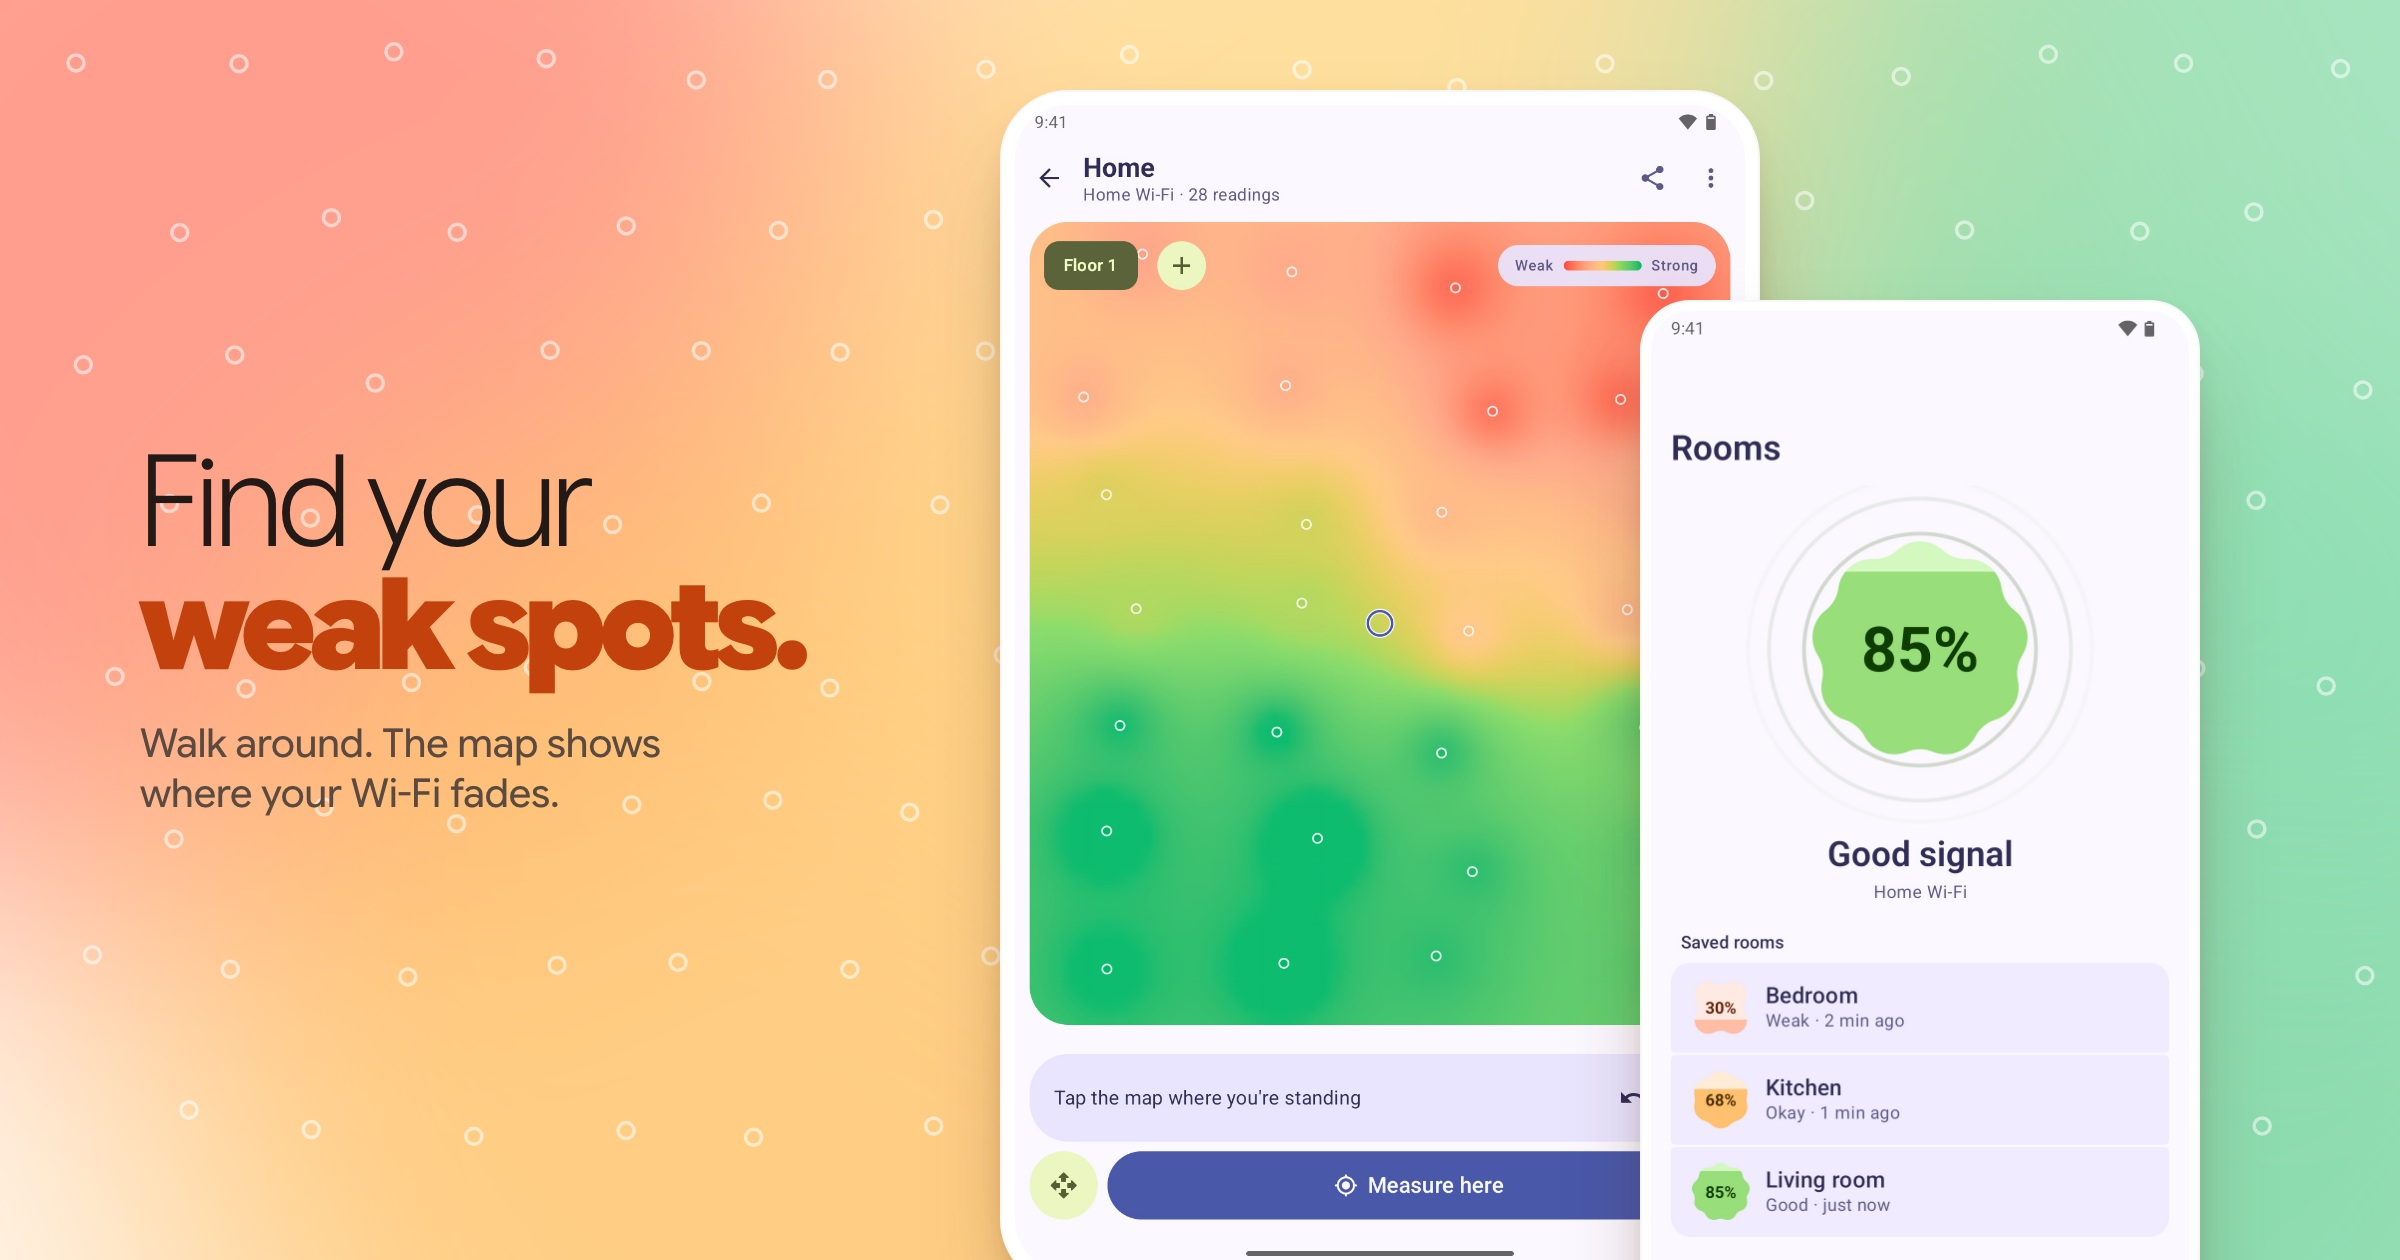
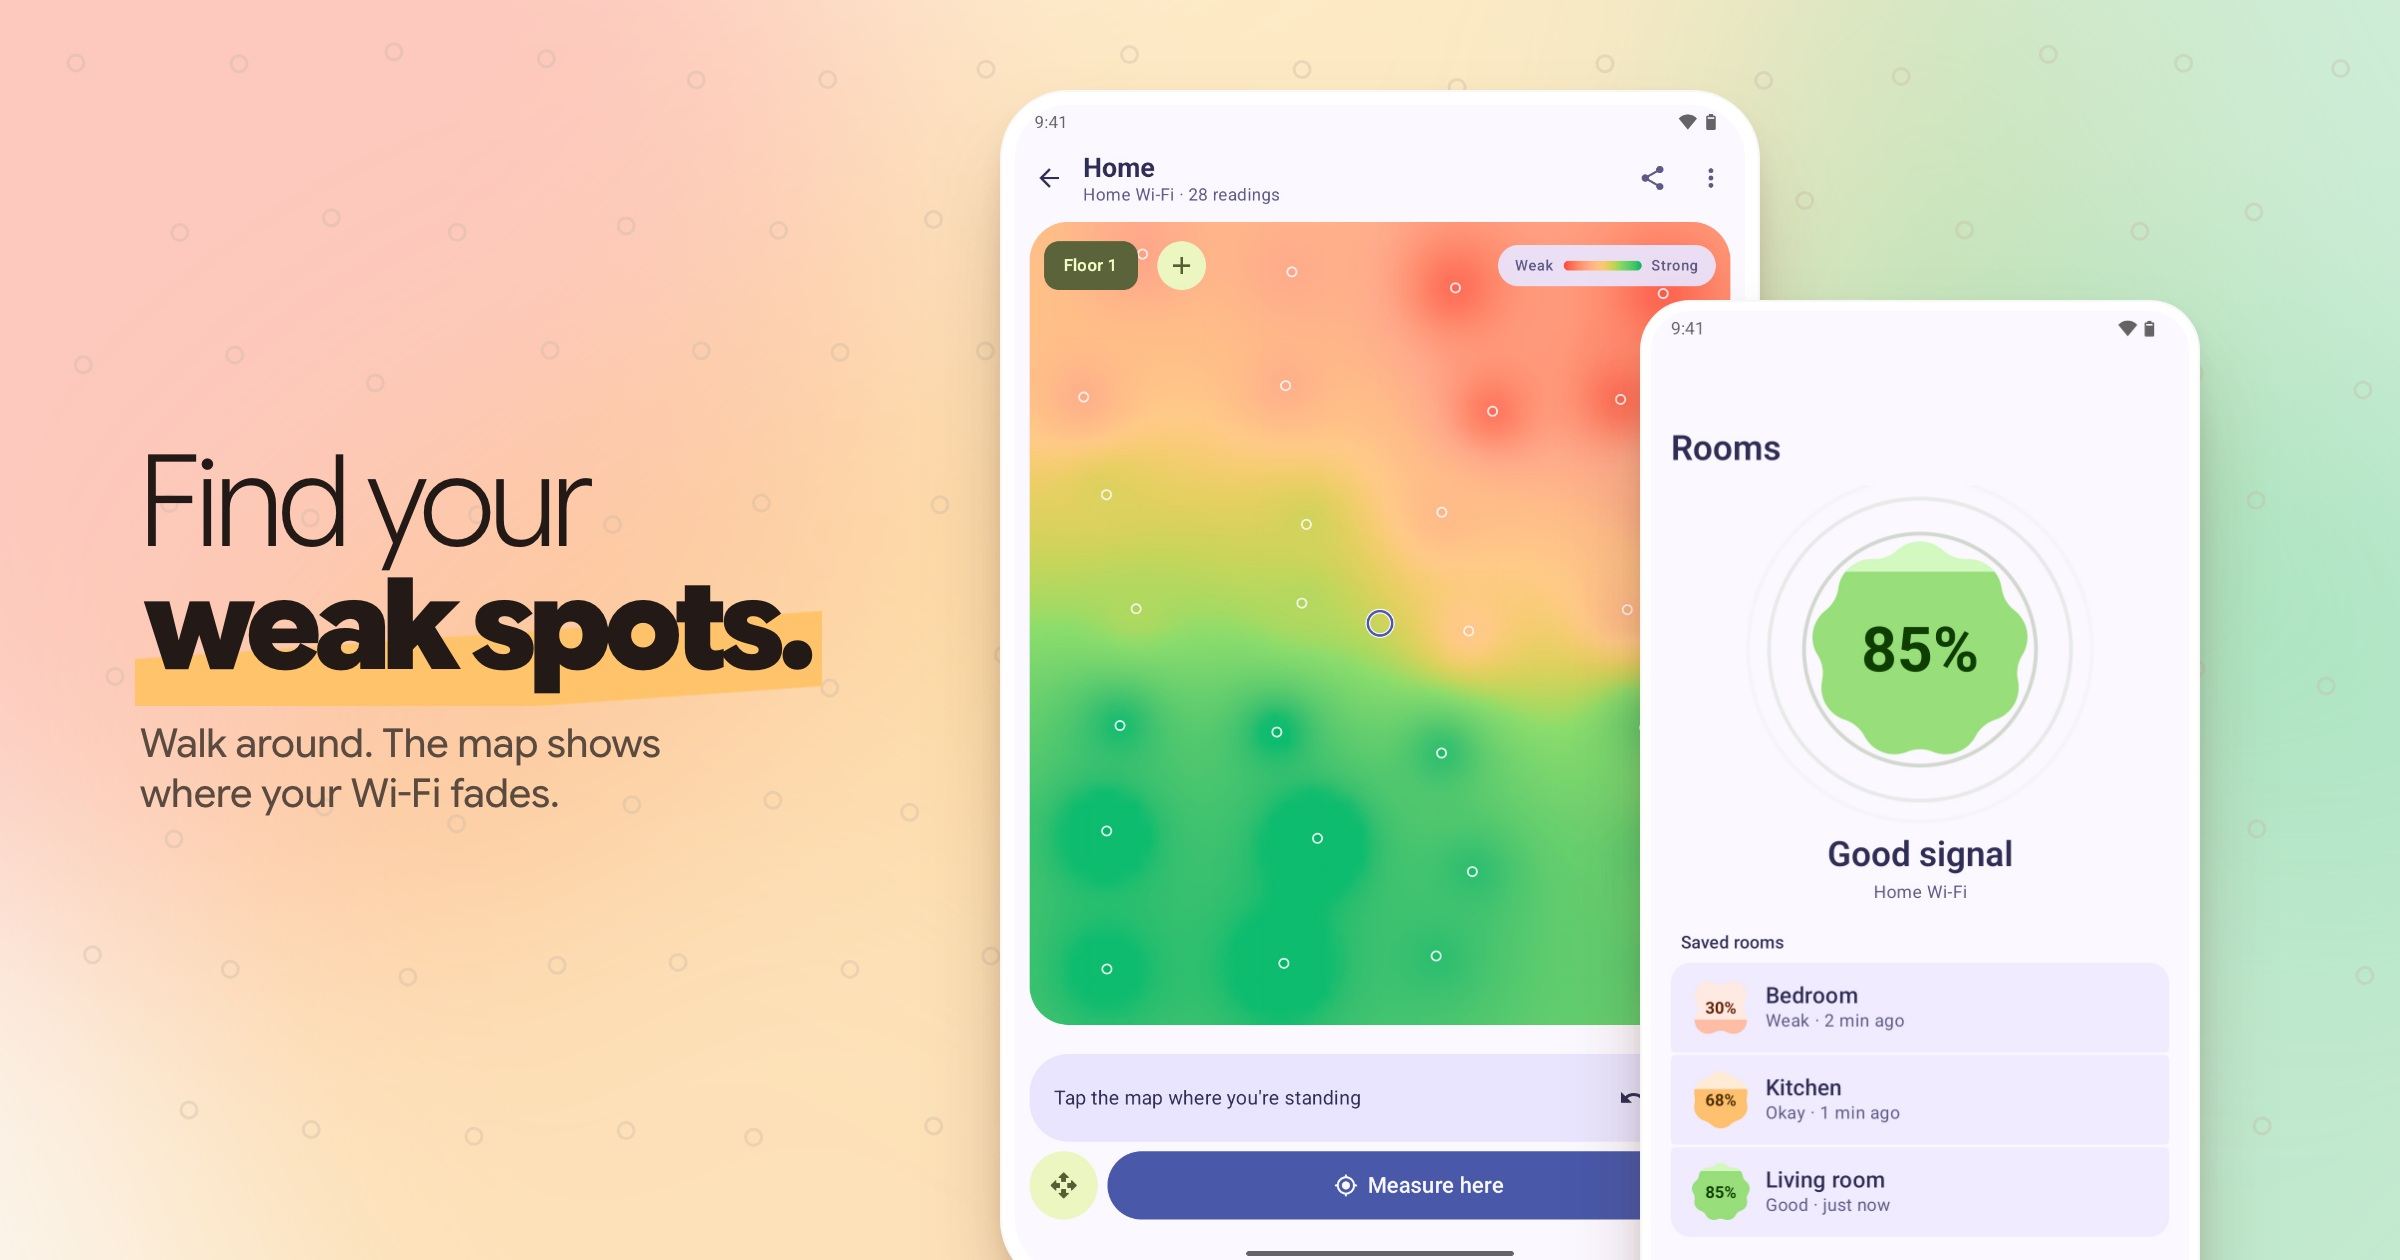
README text in Wordkeep's voice: ink headlines with highlighter bands, one baseline, a quiet line under each; calmer field

diff --git a/store-listing/theme.css b/store-listing/theme.css
@@ -53,7 +53,8 @@ header p{margin:30px 0 0;font-size:40px;line-height:1.25;font-weight:450;color:#
 
 /* README art: the coverage-map field, dark ink copy, and the real app large. */
 .readme{--ink:#231a17}
-.readme h1 em{color:#c2410c}
+.readme h1 em,.readme .device-label em{font-style:normal;color:inherit;padding:0 .08em;margin:0 -.04em;
+  background:linear-gradient(176deg,transparent 54%,var(--hl,#ffc46b) 55%,var(--hl,#ffc46b) 90%,transparent 91%)}
 .readme header p{color:#5b4a40;white-space:pre-line}
 .readme .device{background:#ffffff;box-shadow:inset 0 0 0 2px #00000008,0 50px 100px -40px #5a321e99,0 14px 30px -14px #5a321e44}
 /* Hero: the headline on the left, the full coverage map on a portrait tablet, the room comparison in front. */
@@ -69,8 +70,11 @@ header p{margin:30px 0 0;font-size:40px;line-height:1.25;font-weight:450;color:#
 .readme .wide .front{--bezel:12px;--radius:58px;left:1640px;top:470px;width:500px;z-index:4}
 /* Trio: three phones in a staggered rhythm, the middle one raised, each under its own short headline. */
 .readme .trio .device{--bezel:12px;--radius:60px;width:620px}
-.readme .trio .one{left:110px;top:380px}
-.readme .trio .two{left:890px;top:250px}
-.readme .trio .three{left:1670px;top:380px}
-.readme .trio .device-label{transform:translateY(calc(-100% - 30px));text-align:left;font-size:62px;line-height:1.02;font-weight:720;letter-spacing:-.03em;color:var(--ink)}
-.readme .trio .device-label em{font-style:normal;color:#c2410c}
+.readme .trio .one{left:110px;top:420px}
+.readme .trio .two{left:890px;top:330px}
+.readme .trio .three{left:1670px;top:420px}
+.readme .trio .device-label{top:84px !important;transform:none;text-align:left;font-size:60px;line-height:1.15;font-weight:720;letter-spacing:-.03em;color:var(--ink)}
+.readme .trio .device-label::after{display:block;margin-top:10px;font-size:34px;line-height:1.3;font-weight:450;letter-spacing:0;color:#6b5a50}
+.readme .trio .device-label.one{--hl:#ffc46b}.readme .trio .device-label.one::after{content:"How fast it answers, and how steady."}
+.readme .trio .device-label.two{--hl:#8fe0b4}.readme .trio .device-label.two::after{content:"Every device, then ping and DNS."}
+.readme .trio .device-label.three{--hl:#ff9e8c}.readme .trio .device-label.three::after{content:"Wallpaper colors and four styles."}

diff --git a/store-listing/theme.js b/store-listing/theme.js
@@ -17,9 +17,9 @@ function heatField(W, H, slide) {
   const next = random(W + (slide.file || '').length * 31);
   let dots = '';
   for (let y = 70; y < H; y += 150) for (let x = 60 + (y / 150 % 2) * 75; x < W; x += 150)
-    dots += `<circle cx="${(x + (next() - .5) * 40).toFixed(1)}" cy="${(y + (next() - .5) * 40).toFixed(1)}" r="8" fill="none" stroke="#ffffff" stroke-opacity=".55" stroke-width="3.5"/>`;
+    dots += `<circle cx="${(x + (next() - .5) * 40).toFixed(1)}" cy="${(y + (next() - .5) * 40).toFixed(1)}" r="8" fill="none" stroke="#c9b8a6" stroke-opacity=".35" stroke-width="3"/>`;
   return `<defs><filter id="soft" x="-50%" y="-50%" width="200%" height="200%"><feGaussianBlur stdDeviation="160"/></filter></defs>
-    <rect width="${W}" height="${H}" fill="#fff4ea"/><g filter="url(#soft)">${blobs.map(([x, y, c]) => `<circle cx="${W * x}" cy="${H * y}" r="${H * .55}" fill="${c}" fill-opacity=".8"/>`).join('')}</g>${dots}`;
+    <rect width="${W}" height="${H}" fill="#fbf6ef"/><g filter="url(#soft)">${blobs.map(([x, y, c]) => `<circle cx="${W * x}" cy="${H * y}" r="${H * .55}" fill="${c}" fill-opacity=".42"/>`).join('')}</g>${dots}`;
 }
 
 export default {
@@ -50,6 +50,7 @@ export default {
   },
 
   compose({main, index, kind, slide}) {
+    if (typeof slide.hl === 'string') main.style.setProperty('--hl', slide.hl);
     if (index === 0 && kind !== 'readme' && kind !== 'desktop') {
       const brand = document.createElement('div');
       brand.className = 'brand';
